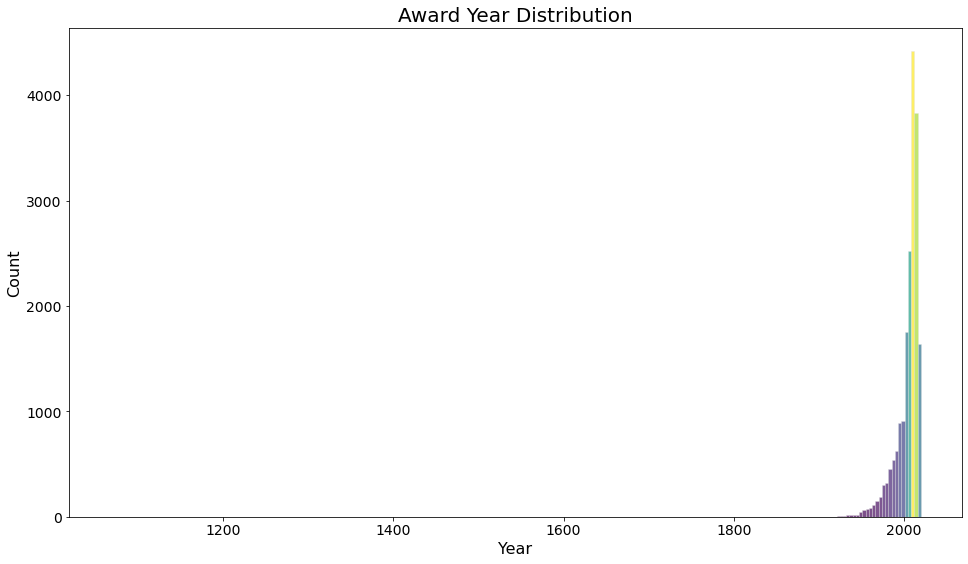
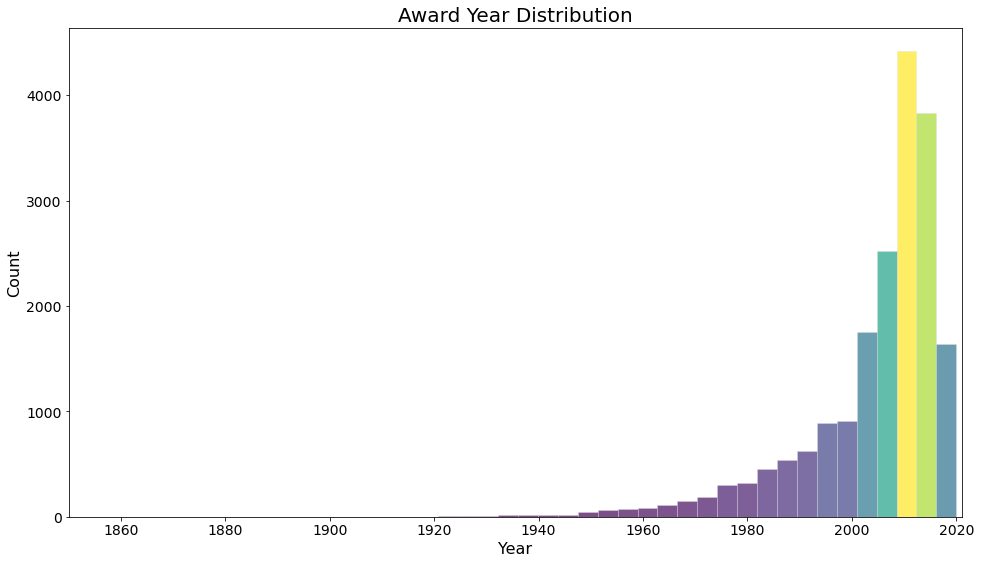
New plot with X scale changed
Former-commit-id: 25d0683d16294fb2aa452349d47628e94ee73b97

diff --git a/scripts/pipeline/development.py b/scripts/pipeline/development.py
@@ -97,28 +97,28 @@ colors = ['#440154ff','#481567ff','#482677ff','#453781ff','#404788ff', '#39568cf
 
 
 #Bar plot of genres with >1.000 occurences in books
-# genres_dict = {}  
-# for column in dataset_genres:
-#     genre_count = 0
-#     if column != "id":
-#         for cell in dataset_genres[column]:
-#             if cell > 0:
-#                 genre_count = genre_count + 1
-#     if genre_count > 1000:
-#         genres_dict[column] = genre_count
+genres_dict = {}  
+for column in dataset_genres:
+    genre_count = 0
+    if column != "id":
+        for cell in dataset_genres[column]:
+            if cell > 0:
+                genre_count = genre_count + 1
+    if genre_count > 1000:
+        genres_dict[column] = genre_count
     
-# genres_dict_sorted = dict(sorted(genres_dict.items(), key=lambda item: item[1], reverse=True))
+genres_dict_sorted = dict(sorted(genres_dict.items(), key=lambda item: item[1], reverse=True))
     
-# fig = plt.figure(figsize=(16,9))
-# ax = fig.add_axes([0,0,1,1])
-# ax.bar(genres_dict_sorted.keys(),genres_dict_sorted.values(), color = "#1f968bff")
-# plt.title('Genres present in more than 1.000 books', fontsize=20)
-# plt.xlabel('Genres', fontsize=16)
-# plt.ylabel('Number of Books', fontsize=16)
-# plt.xticks(rotation=90, fontsize=14)
-# plt.yticks(fontsize=14)
-# ax.ticklabel_format(style='plain', axis='y')
-# plt.show()
+fig = plt.figure(figsize=(16,9))
+ax = fig.add_axes([0,0,1,1])
+ax.bar(genres_dict_sorted.keys(),genres_dict_sorted.values(), color = "#1f968bff")
+plt.title('Genres present in more than 1.000 books', fontsize=20)
+plt.xlabel('Genres', fontsize=16)
+plt.ylabel('Number of Books', fontsize=16)
+plt.xticks(rotation=90, fontsize=14)
+plt.yticks(fontsize=14)
+ax.ticklabel_format(style='plain', axis='y')
+plt.show()
     
    
 #Rating distribution histogram
@@ -214,6 +214,7 @@ colors = ['#440154ff','#481567ff','#482677ff','#453781ff','#404788ff', '#39568cf
 # plt.ylabel('Count', fontsize=16)
 # plt.xticks(fontsize=14)
 # plt.yticks(fontsize=14)
+# plt.xlim([1850, 2021])
 # plt.show() 
 
 
